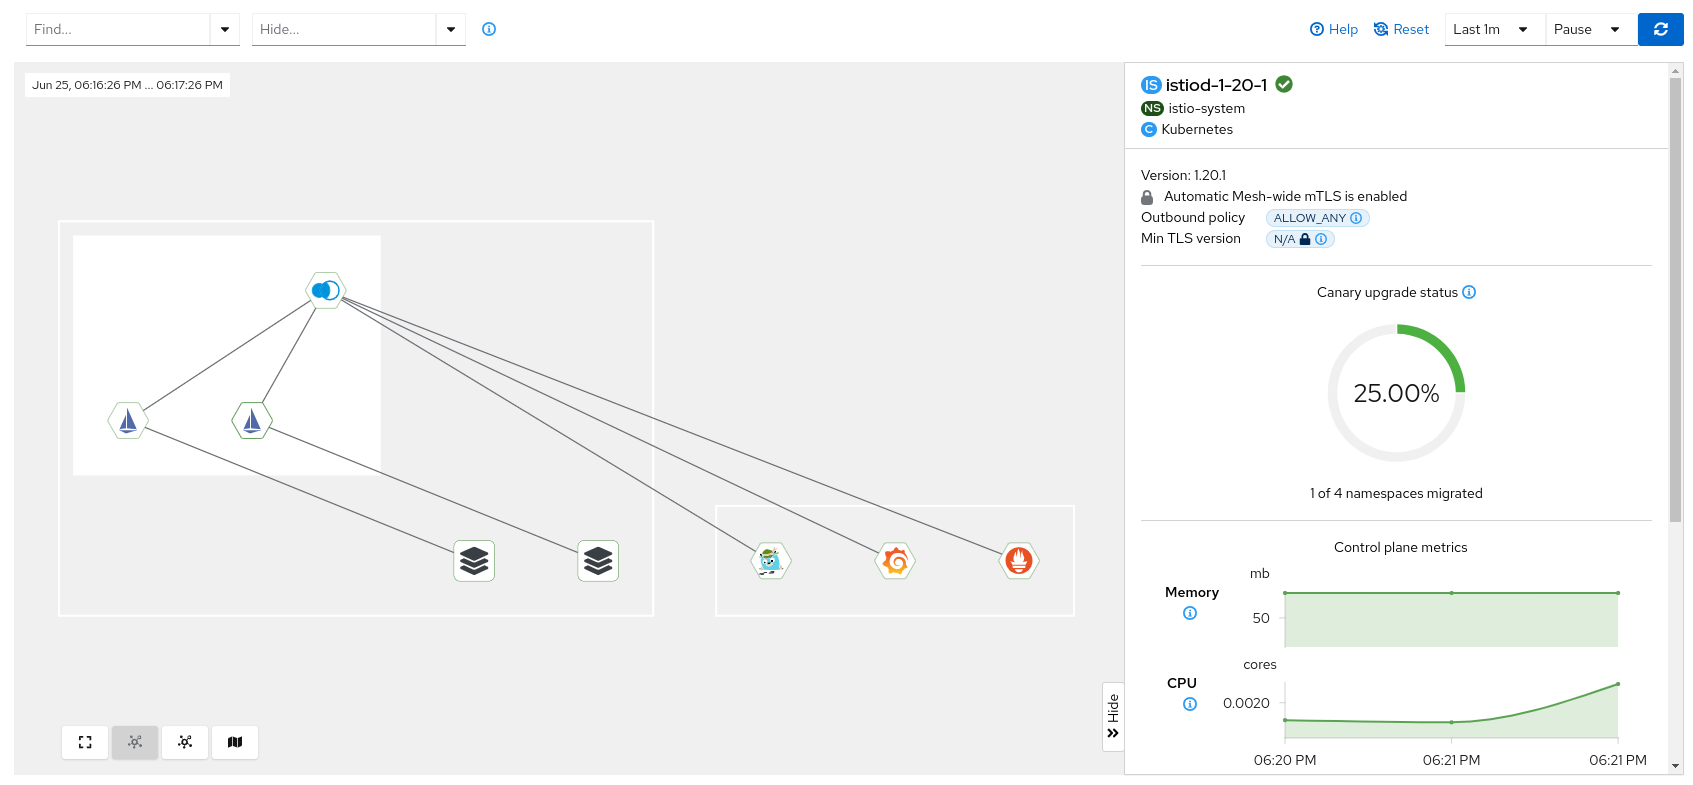
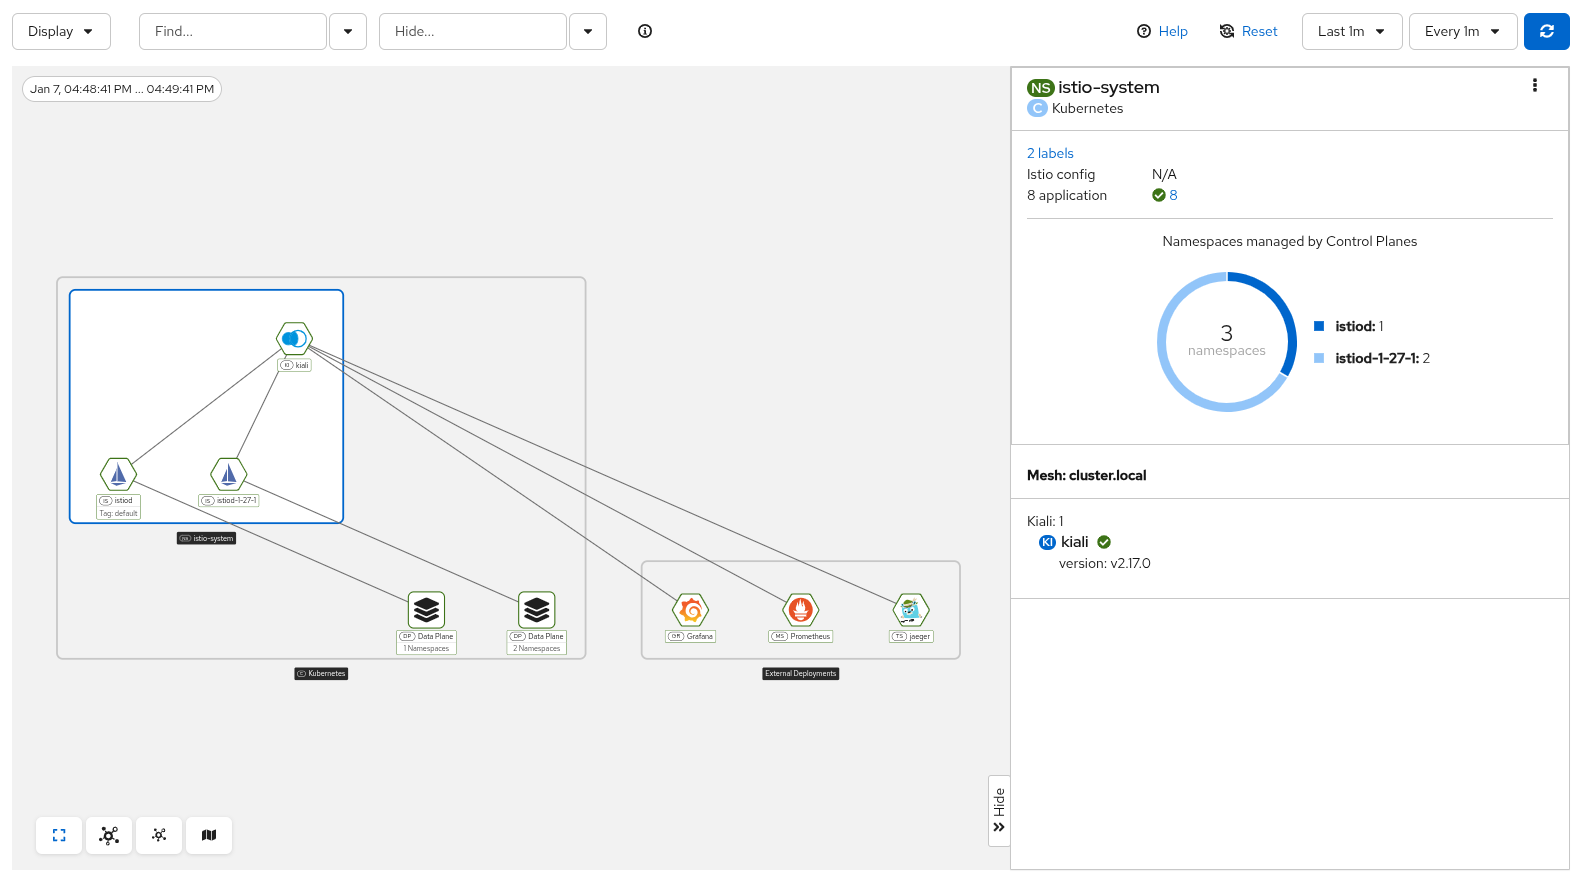
Update mtls images and canary

diff --git a/content/en/docs/Features/security.md b/content/en/docs/Features/security.md
@@ -5,14 +5,15 @@ description: "How Kiali visualizes mTLS."
 
 Kiali gives support to better understand how mTLS is used in Istio meshes. Find those helpers in the graph, the masthead menu, the overview page and specific validations.
 
-## Masthead indicator
+## Mesh indicator
 
-At the right side of the Masthead, Kiali shows a lock when the mesh has strictly enabled `mTLS` for the whole service mesh. It means that all the communications in the mesh uses `mTLS`.
+At the right panel of the Istio Control Plane from the Mesh page, Kiali shows a lock when the mesh has enabled `mTLS` for the whole service mesh. It means that all the communications in the mesh uses `mTLS`.
 
-![mTLS mesh-wide strict](/images/documentation/features/security-masthead-mtls.png "mTLS mesh-wide strict")
-![mTLS mesh-wide permissive](/images/documentation/features/security-masthead-mtls-hollow.png "mTLS mesh-wide permissive")
+![mTLS mesh-wide strict](/images/documentation/features/security-mesh.png "mTLS mesh-wide strict")
 
 Kiali shows a hollow lock when either the mesh is configured in `PERMISSIVE` mode or there is a misconfiguration in the mesh-wide `mTLS` configuration.
+
+![mTLS mesh-wide permissive](/images/documentation/features/security-mesh-hollow.png "mTLS mesh-wide strict")
 
 ## Overview locks
 
@@ -22,7 +23,7 @@ The overview page shows all the available namespaces with aggregated data. Besid
 
 ## Graph
 
-The `mTLS` method is used to establish communication between microservices. In the graph, Kiali has the option to show which edges are using `mTLS` and with what percentatge during the selected period. When an edge shows a lock icon it means at least one request with mTLS enabled is present. In case there are both mTLS and non-mTLS requests, the side-panel will show the percentage of requests using `mTLS`.
+The `mTLS` method is used to establish communication between microservices. In the graph, Kiali has the option to show which edges are using `mTLS` and with what percentage during the selected period. When an edge shows a lock icon it means at least one request with mTLS enabled is present. In case there are both mTLS and non-mTLS requests, the side-panel will show the percentage of requests using `mTLS`.
 
 Enable the option in the `Display` dropdown, select the `security` badge.
 
